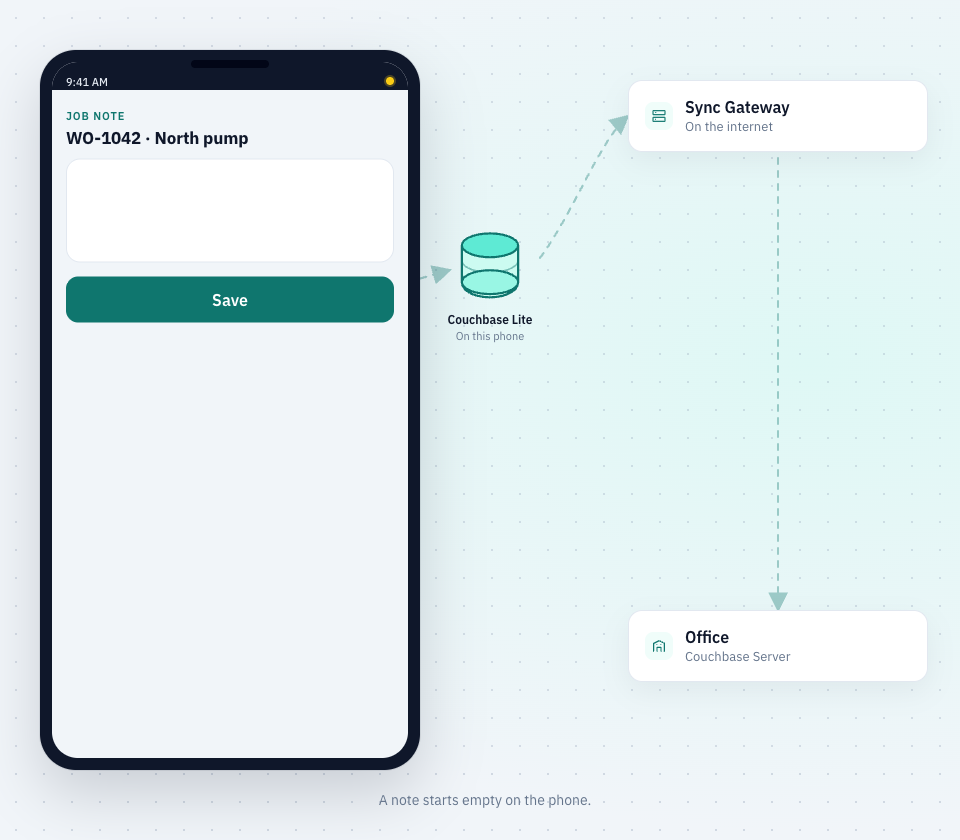
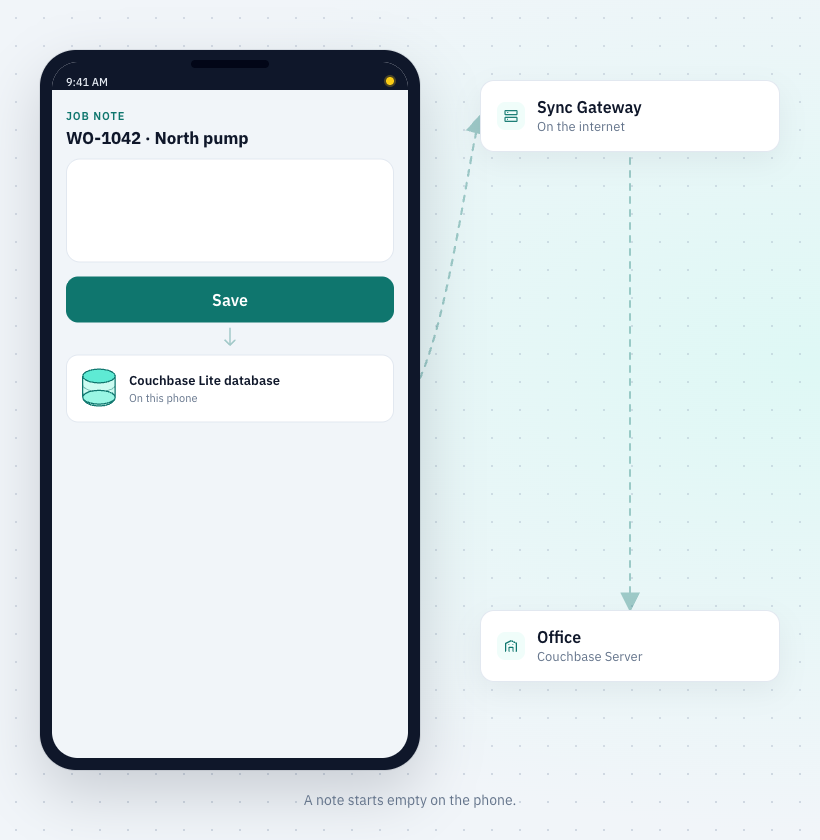
feat: put the Couchbase Lite database on the phone screen
Cylinder sits under Save, labeled Couchbase Lite database. After
Save, a packet drops into it, then hops out of the device to
Sync Gateway and the office.

diff --git a/public/hero-sync.html b/public/hero-sync.html
@@ -162,41 +162,64 @@
     padding: 16px 16px; display: flex; align-items: center; gap: 12px;
     box-shadow: 0 10px 28px rgba(15,23,42,0.06);
   }
-  .card-sg { top: 170px; left: 1008px; }
-  .card-office { top: 700px; left: 1008px; }
+  .card-sg { top: 170px; left: 860px; }
+  .card-office { top: 700px; left: 860px; }
 
-  .db-node {
-    position: absolute;
-    left: 808px;
-    top: 318px;
-    width: 124px;
-    z-index: 3;
-    text-align: center;
+  .save-to-db {
+    position: relative;
+    height: 32px;
+    display: flex;
+    justify-content: center;
+    align-items: center;
+    color: var(--teal);
+    opacity: 0.35;
   }
-  .db-cyl { width: 70px; height: 78px; margin: 0 auto 6px; display: block; }
-  .db-node strong {
+  .save-to-db.is-live { opacity: 1; }
+  .save-to-db svg { width: 20px; height: 28px; display: block; }
+  .pkt-in {
+    position: absolute;
+    left: 50%;
+    top: 2px;
+    width: 10px;
+    height: 10px;
+    margin-left: -5px;
+    border-radius: 50%;
+    background: radial-gradient(circle at 35% 35%, #fff, var(--pkt2) 38%, var(--pkt) 72%);
+    box-shadow: 0 0 8px 2px rgba(45, 212, 191, 0.7);
+    opacity: 0;
+    pointer-events: none;
+  }
+  .pkt-in.is-fly { animation: pktIn 0.72s ease-in forwards; }
+  @keyframes pktIn {
+    0% { top: 0; opacity: 1; }
+    75% { opacity: 1; }
+    100% { top: 22px; opacity: 0; }
+  }
+  .local-db {
+    display: flex;
+    align-items: center;
+    gap: 10px;
+    padding: 10px 12px;
+    background: #fff;
+    border: 1px solid var(--line);
+    border-radius: 12px;
+  }
+  .local-db .db-cyl { width: 40px; height: 46px; flex-shrink: 0; display: block; }
+  .local-db strong {
     display: block;
-    font: 600 12px/1.2 "IBM Plex Sans", Inter, sans-serif;
+    font: 600 13px/1.25 "IBM Plex Sans", Inter, sans-serif;
     color: var(--ink);
   }
-  .db-node span {
+  .local-db span {
     display: block;
     font: 400 11px/1.3 "IBM Plex Sans", Inter, sans-serif;
     color: var(--muted);
     margin-top: 2px;
   }
-  .db-ring {
-    position: absolute;
-    left: 18px; right: 18px; top: -2px; height: 84px;
-    border-radius: 40px;
-    pointer-events: none;
-    opacity: 0;
+  .local-db.is-write {
+    border-color: #5eead4;
+    box-shadow: 0 0 0 2px var(--pkt), 0 0 12px rgba(45, 212, 191, 0.35);
   }
-  .db-node.is-write .db-ring {
-    opacity: 1;
-    box-shadow: 0 0 0 2px var(--pkt), 0 0 16px rgba(45, 212, 191, 0.4);
-  }
-  .db-node.is-write .db-cyl { transform: scale(1.06); transform-origin: 50% 40%; }
   .card-title { font: 600 16px/1.2 "IBM Plex Sans", Inter, sans-serif; color: var(--ink); }
   .card-status { font: 400 13px/1.3 "IBM Plex Sans", Inter, sans-serif; color: var(--muted); margin-top: 2px; }
   .card-icon {
@@ -221,12 +244,12 @@
   .packet-sm { width: 11px; height: 11px; margin: -5.5px 0 0 -5.5px; }
 
   .caption {
-    position: absolute; left: 420px; width: 890px; top: 880px; z-index: 5;
+    position: absolute; left: 420px; width: 740px; top: 880px; z-index: 5;
     text-align: center; font: 400 14px/1.4 "IBM Plex Sans", Inter, sans-serif; color: var(--muted);
   }
 
   @media (prefers-reduced-motion: reduce) {
-    .caret, .hand.bob, .save.rippling .ripple { animation: none; }
+    .caret, .hand.bob, .save.rippling .ripple, .pkt-in.is-fly { animation: none; }
     .keyboard { transition: none; }
     .hand { transition: none !important; }
   }
@@ -242,9 +265,8 @@
       </marker>
     </defs>
     <g id="dotField"></g>
-    <path id="pathIn" class="path-line" d="M 788 372 L 830 360" fill="none" marker-end="url(#arrow)"/>
-    <path id="pathCurve" class="path-line" d="M 920 348 C 955 300, 980 230, 1008 206" fill="none" marker-end="url(#arrow)"/>
-    <path id="pathDown" class="path-line" d="M 1158 248 L 1158 700" fill="none" marker-end="url(#arrow)"/>
+    <path id="pathCurve" class="path-line" d="M 800 468 C 830 400, 848 250, 860 206" fill="none" marker-end="url(#arrow)"/>
+    <path id="pathDown" class="path-line" d="M 1010 248 L 1010 700" fill="none" marker-end="url(#arrow)"/>
   </svg>
 
   <div class="phone" id="phone">
@@ -266,6 +288,26 @@
         <span class="save-label" id="saveLabel">Save</span>
         <span class="ripple" id="ripple"></span>
       </button>
+      <div class="save-to-db" id="saveToDb" aria-hidden="true">
+        <span class="pkt-in" id="pktLocal"></span>
+        <svg viewBox="0 0 24 28" fill="none" stroke="currentColor" stroke-width="2" stroke-linecap="round" stroke-linejoin="round">
+          <path d="M12 2 v18"/>
+          <path d="M6 16 l6 6 6-6"/>
+        </svg>
+      </div>
+      <div class="local-db" id="localDb">
+        <svg class="db-cyl" viewBox="0 0 64 72" aria-hidden="true">
+          <path d="M6 16 v34 c0 8 11.6 14 26 14 s26-6 26-14 V16" fill="#ccfbf1" stroke="#0f766e" stroke-width="2"/>
+          <ellipse cx="32" cy="16" rx="26" ry="11" fill="#5eead4" stroke="#0f766e" stroke-width="2"/>
+          <path d="M6 30 c0 6 11.6 11 26 11 s26-5 26-11" fill="none" stroke="#0f766e" stroke-width="1.5" opacity="0.45"/>
+          <path d="M6 42 c0 6 11.6 11 26 11 s26-5 26-11" fill="none" stroke="#0f766e" stroke-width="1.5" opacity="0.45"/>
+          <ellipse cx="32" cy="50" rx="26" ry="11" fill="#99f6e4" stroke="#0f766e" stroke-width="2"/>
+        </svg>
+        <div>
+          <strong>Couchbase Lite database</strong>
+          <span id="dbStatus">On this phone</span>
+        </div>
+      </div>
       <div class="keyboard" id="keyboard" aria-hidden="true">
         <div class="kb-row"><i></i><i></i><i></i><i></i><i></i><i></i><i></i><i></i><i></i><i></i></div>
         <div class="kb-row row9"><i></i><i></i><i></i><i></i><i></i><i></i><i></i><i></i><i></i></div>
@@ -282,19 +324,6 @@
     <rect x="18" y="38" width="40" height="34" rx="12"/>
     <rect x="26" y="68" width="24" height="18" rx="7"/>
   </svg>
-
-  <div class="db-node" id="localDb">
-    <div class="db-ring"></div>
-    <svg class="db-cyl" viewBox="0 0 64 72" aria-hidden="true">
-      <path d="M6 16 v34 c0 8 11.6 14 26 14 s26-6 26-14 V16" fill="#ccfbf1" stroke="#0f766e" stroke-width="2"/>
-      <ellipse cx="32" cy="16" rx="26" ry="11" fill="#5eead4" stroke="#0f766e" stroke-width="2"/>
-      <path d="M6 30 c0 6 11.6 11 26 11 s26-5 26-11" fill="none" stroke="#0f766e" stroke-width="1.5" opacity="0.45"/>
-      <path d="M6 42 c0 6 11.6 11 26 11 s26-5 26-11" fill="none" stroke="#0f766e" stroke-width="1.5" opacity="0.45"/>
-      <ellipse cx="32" cy="50" rx="26" ry="11" fill="#99f6e4" stroke="#0f766e" stroke-width="2"/>
-    </svg>
-    <strong>Couchbase Lite</strong>
-    <span id="dbStatus">On this phone</span>
-  </div>
 
   <div class="card card-sg" id="cardSg">
     <div class="card-ring" data-ring="teal"></div>
@@ -326,7 +355,6 @@
     </div>
   </div>
 
-  <div class="packet" id="pktLocal"></div>
   <div class="packet" id="pkt1"></div>
   <div class="packet packet-sm" id="pkt2"></div>
   <div class="packet" id="pkt3"></div>
@@ -339,16 +367,15 @@ const NOTE = "Replaced gasket on P-12. Pressure OK.";
 const PAUSE_AFTER = 15;
 const CHAR_MS = 90;
 const LOOP_S = 13.20;
-const PATH_IN = "M 788 372 L 830 360";
-const PATH_CURVE = "M 920 348 C 955 300, 980 230, 1008 206";
-const PATH_DOWN  = "M 1158 248 L 1158 700";
+const PATH_CURVE = "M 800 468 C 830 400, 848 250, 860 206";
+const PATH_DOWN  = "M 1010 248 L 1010 700";
 const T = { idleEnd:0.70, typeEnd:4.70, holdEnd:5.18, aimEnd:5.88, tapEnd:6.26, localEnd:7.15, pushEnd:8.70, syncEnd:12.26, resetEnd:13.20 };
 const CAPTION = {
   idle: "A note starts empty on the phone.",
   typing: "Typing the job note.",
   aim: "Reach for Save.",
   tap: "Saved on the device.",
-  local: "Written to Couchbase Lite on the phone.",
+  local: "Written to the Couchbase Lite database on the phone.",
   push: "Pushing across the internet.",
   synced: "On the phone, then across the internet.",
 };
@@ -434,7 +461,7 @@ const Scene = {
     document.getElementById("dbStatus").textContent = state === "write" ? "1 note in" : "On this phone";
   },
   setPath(s){
-    document.getElementById("pathIn").classList.toggle("is-live", s.pathIn);
+    document.getElementById("saveToDb").classList.toggle("is-live", s.pathIn);
     document.getElementById("pathCurve").classList.toggle("is-live", s.pathOut);
     document.getElementById("pathDown").classList.toggle("is-live", s.pathDown);
   },
@@ -484,7 +511,7 @@ function apply(s){
   Scene.setCaption(s.caption);
   const liveFrom = s.pathIn ? 6.26 : (s.pathOut ? 7.15 : 0);
   Scene.crawlDash((s.pathIn || s.pathOut) ? Math.max(0, (Math.min(s.t, 8.70) - liveFrom) * 48) : 0);
-  Scene.placePacket("pktLocal", document.getElementById("pathIn"), s.packets.localU, s.packets.local);
+  document.getElementById("pktLocal").classList.toggle("is-fly", s.packets.local);
   Scene.placePacket("pkt1", document.getElementById("pathCurve"), s.packets.p1u, s.packets.p1);
   Scene.placePacket("pkt2", document.getElementById("pathCurve"), s.packets.p2u, s.packets.p2);
   Scene.placePacket("pkt3", document.getElementById("pathDown"),  s.packets.p3u, s.packets.p3);
@@ -510,7 +537,7 @@ function fit(){
   const stage = document.getElementById("stage");
   if (params.has("embed")) {
     document.querySelector(".viewport").classList.add("is-embed");
-    const cx = 380, cy = 90, cw = 960, ch = 840;
+    const cx = 380, cy = 90, cw = 820, ch = 840;
     const k = Math.max(innerWidth / cw, innerHeight / ch);
     const visW = innerWidth / k;
     const visH = innerHeight / k;

diff --git a/public/index.html b/public/index.html
@@ -65,7 +65,7 @@
         <div class="hero-visual">
           <p class="visually-hidden">Demo: a technician types a job note, taps Save, writes it to Couchbase Lite on the phone, then syncs it to the office.</p>
           <div class="hero-film">
-            <img class="hero-still" src="images/hero-sync-idle.png" alt="Empty job note on the phone, local Couchbase Lite cylinder, Sync Gateway, and the office" width="960" height="840" />
+            <img class="hero-still" src="images/hero-sync-idle.png" alt="Job note on the phone with a Couchbase Lite database on the device, then Sync Gateway and the office" width="820" height="840" />
             <iframe class="hero-film-live" src="hero-sync.html?embed=1" title="Type a job note, save to Couchbase Lite, sync to the office" loading="eager"></iframe>
           </div>
         </div>

diff --git a/public/css/site.css b/public/css/site.css
@@ -222,7 +222,7 @@ pre code { font-size: inherit; color: inherit; }
 .hero-film {
   position: relative;
   width: 100%;
-  aspect-ratio: 960 / 840;
+  aspect-ratio: 820 / 840;
   background: var(--bg);
   border-radius: 16px;
   overflow: hidden;
